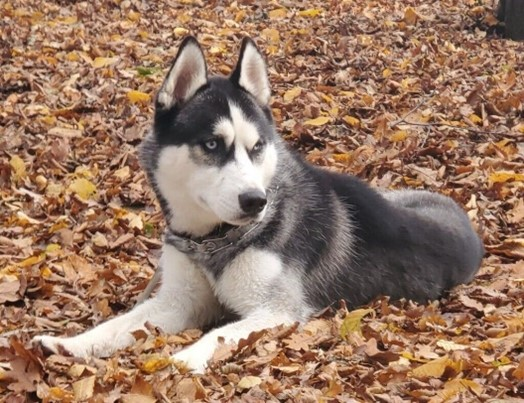
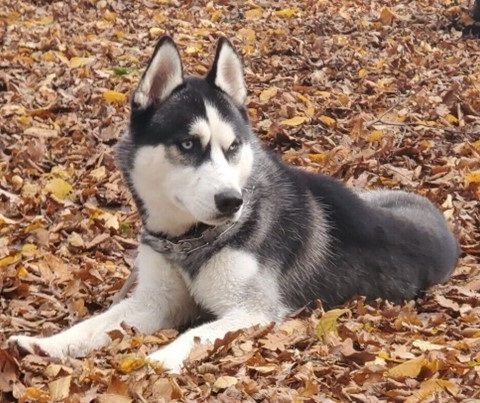
edited images to fit better formatting adoption page added more content to homepage

diff --git a/scp_adoption.html b/scp_adoption.html
@@ -10,7 +10,6 @@
     <link rel="stylesheet" href="styles/scp_adoptionStyles.css">
     <link rel="stylesheet" href="https://cdn.jsdelivr.net/npm/bootstrap-icons@1.11.3/font/bootstrap-icons.min.css">
     <script src="scripts/bootstrap.min.js"></script>
-
 </head>
 <body class="bg-bodyColour">
 <nav>
@@ -18,15 +17,26 @@
 </nav>
 
 
-<div>
-    <div>
-        <h1>Pups Available for Adoption</h1>
-    </div>
+<div class="w-75 mx-auto mb-3 mt-3">
     <div class="container">
         <div class="row">
-        <div class="custom-dog border border-black col-3 p-2">
-            <img class="custom-dog-image p-0 border border-black img-fluid" src="images/dogs/bella.jpg" alt="" width="300">
-            <div class="d-flex flex-column">
+            <h1 class="text-center">Pups Available for Adoption</h1>
+            <div class="col-4 bg-panel">
+                <h2>Adoption Fees</h2>
+                <ul>
+                    <li>Puppies: $450*</li>
+                    <li>Adults: $250</li>
+                    <li>Seniors: $200</li>
+                </ul>
+            </div>
+            <div class="col-4 bg-panel">
+
+            </div>
+        </div>
+        <div class="row mt-2 mb-2">
+        <div class="dog bg-panel col-3">
+            <img class="dog-top mx-auto d-block img-fluid" src="images/dogs/bella.jpg" alt="" width="300">
+            <div class="dog-bottom d-flex flex-column p-4">
                 <span>Name: Bella</span>
                 <span>Age: 3 years old</span>
                 <span>Breed: Labrador Retriever</span>
@@ -39,9 +49,9 @@
                 </ul>
             </div>
         </div>
-        <div class="custom-dog border border-black col-3 p-2">
-            <img class="custom-dog-image p-0 border border-black img-fluid" src="images/dogs/max.jpg" alt="" width="300">
-            <div class="d-flex flex-column">
+        <div class="dog bg-panel col-3">
+            <img class="dog-top mx-auto d-block img-fluid" src="images/dogs/max.jpg" alt="" width="300">
+            <div class="dog-bottom d-flex flex-column p-4">
                 <span>Name: Max</span>
                 <span>Age: 2 years old</span>
                 <span>Breed: German Shepard Mix</span>
@@ -54,9 +64,9 @@
                 </ul>
             </div>
         </div>
-        <div class="custom-dog border border-black col-3 p-2">
-            <img class="custom-dog-image p-0 border border-black img-fluid" src="images/dogs/charlie.jpg" alt="" width="300">
-            <div class="d-flex flex-column">
+        <div class="dog bg-panel col-3">
+            <img class="dog-top mx-auto d-block img-fluid" src="images/dogs/charlie.jpg" alt="" width="300">
+            <div class="d-flex flex-column p-4">
                 <span>Name: Charlie</span>
                 <span>Age: 5 years old</span>
                 <span>Breed: Beagle</span>
@@ -69,11 +79,11 @@
                 </ul>
             </div>
         </div>
-        <div class="custom-dog border border-black col-3 p-2">
-            <img class="custom-dog-image p-0 border border-black img-fluid" src="images/dogs/bailey.jpg" alt="" width="300">
-            <div class="d-flex flex-column">
+        <div class="dog bg-panel col-3">
+            <img class="dog-top mx-auto d-block img-fluid" src="images/dogs/bailey.jpg" alt="" width="300">
+            <div class="d-flex flex-column p-4">
                 <span>Name: Bailey</span>
-                <span>Age: 6 years old</span>
+                <span>Age: 8 years old</span>
                 <span>Breed: Yorkshire Terrier</span>
                 <span>Sex: Female</span>
                 <span>Size: Small</span>
@@ -85,10 +95,10 @@
             </div>
         </div>
         </div>
-        <div class="row">
-            <div class="custom-dog border border-black col-3 p-2">
-                <img class="custom-dog-image p-0 border border-black img-fluid" src="images/dogs/daisy.jpg" alt="" width="300">
-                <div class="d-flex flex-column">
+        <div class="row mt-2 mb-2">
+            <div class="dog bg-panel col-3">
+                <img class="dog-top mx-auto d-block img-fluid" src="images/dogs/daisy.jpg" alt="" width="300">
+                <div class="d-flex flex-column p-4">
                     <span>Name: Daisy</span>
                     <span>Age: 4 years old</span>
                     <span>Breed: Bulldog</span>
@@ -101,9 +111,9 @@
                     </ul>
                 </div>
             </div>
-            <div class="custom-dog border border-black col-3 p-2">
-                <img class="custom-dog-image p-0 border border-black img-fluid" src="images/dogs/rocky.jpg" alt="" width="300">
-                <div class="d-flex flex-column">
+            <div class="dog bg-panel col-3">
+                <img class="dog-top mx-auto d-block img-fluid" src="images/dogs/rocky.jpg" alt="" width="300">
+                <div class="d-flex flex-column p-4">
                     <span>Name: Rocky</span>
                     <span>Age: 1 years old</span>
                     <span>Breed: Siberian Husky</span>
@@ -116,9 +126,9 @@
                     </ul>
                 </div>
             </div>
-            <div class="custom-dog border border-black col-3 p-2">
-                <img class="custom-dog-image p-0 border border-black img-fluid" src="images/dogs/lucy.jpg" alt="" width="300">
-                <div class="d-flex flex-column">
+            <div class="dog bg-panel col-3">
+                <img class="dog-top mx-auto d-block img-fluid" src="images/dogs/lucy.jpg" alt="" width="300">
+                <div class="d-flex flex-column p-4">
                     <span>Name: Lucy</span>
                     <span>Age: 6 years old</span>
                     <span>Breed: Poodle</span>
@@ -131,9 +141,9 @@
                     </ul>
                 </div>
             </div>
-            <div class="custom-dog border border-black col-3 p-2">
-                <img class="custom-dog-image p-0 border border-black img-fluid" src="images/dogs/cooper.jpg" alt="" width="300">
-                <div class="d-flex flex-column">
+            <div class="dog bg-panel col-3">
+                <img class="dog-top mx-auto d-block img-fluid" src="images/dogs/cooper.jpg" alt="" width="300">
+                <div class="d-flex flex-column p-4">
                     <span>Name: Cooper</span>
                     <span>Age: 3 years old</span>
                     <span>Breed: Boxer</span>
@@ -147,10 +157,10 @@
                 </div>
             </div>
         </div>
-        <div class="row">
-            <div class="custom-dog border border-black col-3 p-2">
-                <img class="custom-dog-image p-0 border border-black img-fluid" src="images/dogs/buddy.jpg" alt="" width="300">
-                <div class="d-flex flex-column">
+        <div class="row mt-2 mb-2">
+            <div class="dog bg-panel col-4">
+                <img class="dog-top mx-auto d-block img-fluid" src="images/dogs/buddy.jpg" alt="" width="300">
+                <div class="d-flex flex-column p-4">
                     <span>Name: Buddy</span>
                     <span>Age: 4 years old</span>
                     <span>Breed: Golden Retriever</span>
@@ -163,14 +173,14 @@
                     </ul>
                 </div>
             </div>
-            <div class="custom-dog border border-black col-3 p-2">
-                <img class="custom-dog-image  p-0 border border-black img-fluid" src="images/dogs/zoe.jpg" alt="" width="300">
-                <div class="d-flex flex-column">
+            <div class="dog bg-panel col-4">
+                <img class="dog-top mx-auto d-block img-fluid" src="images/dogs/zoe.jpg" alt="" width="300">
+                <div class="d-flex flex-column p-4">
                     <span>Name: Zoe</span>
                     <span>Age: 5 years old</span>
                     <span>Breed: Shih Tzu</span>
                     <span>Sex: Female</span>
-                    <span>Size: Large</span>
+                    <span>Size: Small</span>
                     <span>Health:</span>
                     <ul>
                         <li>Spayed/Neutered</li>
@@ -178,9 +188,9 @@
                     </ul>
                 </div>
             </div>
-            <div class="custom-dog border border-black col-3 p-2">
-                <img class="custom-dog-image p-0 border border-black img-fluid" src="images/dogs/duke.jpg" alt="" width="300">
-                <div class="d-flex flex-column">
+            <div class="dog bg-panel col-4">
+                <img class="dog-top mx-auto d-block img-fluid" src="images/dogs/duke.jpg" alt="" width="300">
+                <div class="d-flex flex-column p-4">
                     <span>Name: Duke</span>
                     <span>Age: 6 years old</span>
                     <span>Breed: Poodle</span>
@@ -193,9 +203,9 @@
                     </ul>
                 </div>
             </div>
-            <div class="custom-dog border border-black col-3 p-2">
-                <img class="custom-dog-image p-0 border border-black img-fluid" src="images/dogs/sophie.jpg" alt="" width="300">
-                <div class="d-flex flex-column">
+            <div class="dog bg-panel col-4">
+                <img class="dog-top mx-auto d-block img-fluid" src="images/dogs/sophie.jpg" alt="" width="300">
+                <div class="d-flex flex-column p-4">
                     <span>Name: Sophie</span>
                     <span>Age: 3 years old</span>
                     <span>Breed: Border Collie</span>
@@ -215,7 +225,7 @@
 
 
 <footer class="bg-footerColour border border-black rounded-top-5 pt-1 pb-0">
-    <div class="container ">
+    <div class="container">
         <div class="row">
             <!-- About Section appears at tops of footer on mobile, uses middle column on full browser view -->
             <div class="col-12 col-md-4 order-1 order-md-2">

diff --git a/scp_home.html b/scp_home.html
@@ -20,17 +20,9 @@
 
 
 
-<div class="container w-75">
+<div class="container w-75 mx-auto mb-3 mt-3">
     <img class="" src="images/dog_banner_adobepreview.png" alt="Dog Banner Image" width="100%">
-    <div class="row border border-black p-1 rounded-5 bg-homeLoad d-none d-md-block">
-        <div class="col-12 rounded-5 bg-help d-md-none d-sm-block">
-            <h1 class="fw-bold text-center p-2">HELP NOW</h1>
-            <div class="d-flex flex-column p-3">
-                <a href="#" class="btn btn-primary btn-adopt">ADOPT</a>
-                <a href="#" class="btn btn-primary btn-volunteer">VOLUNTEER</a>
-                <a href="#" class="btn btn-primary btn-donate">DONATE</a>
-            </div>
-        </div>
+    <div class="row border border-black p-1 rounded-5 bg-panel d-none d-md-block">
         <div class="col-12">
             <div id="homeCarousel" class="carousel slide pt-2 pb-2" data-bs-ride="carousel">
                 <!-- Indicators -->
@@ -92,11 +84,81 @@
         </div>
     </div>
     <div class="row">
-        <div class="col-12 col-md-6 bg-homeLoad rounded-5 m-1 border border-black p-4">
-            <h1>Our Mission</h1>
-            <p>At Second Chance Pups, we believe every dog deserves a second chance at life. Our mission is to rescue,
-                rehabilitate, and rehome dogs who have been abandoned, neglected, or abused. We provide a safe and
-                loving environment where these dogs can heal and thrive, preparing them for their forever homes.</p>
+        <div class="col-12 col-md-6 bg-panel rounded-5 border border-black p-4">
+            <h2>Our Mission</h2>
+            <p>At Second Chance Pups, our mission is to provide a safe haven and loving care to abandoned and rescued dogs in Saskatoon.
+                We are dedicated to rehabilitating and rehoming dogs in need, offering them a second chance at life.
+                We strive to raise community awareness about the importance of responsible pet ownership and the joys of adopting a rescue animal.
+                Our commitment is to ensure that each dog receives the compassion, medical attention, and training needed to become a cherished family member in their forever homes.</p>
+        </div>
+        <div class="col-12 col-md-6 rounded-5 bg-panel border border-black">
+            <h1 class="fw-bold text-center p-2">HELP NOW</h1>
+            <div class="d-flex flex-column p-3">
+                <a href="scp_adoption.html" class="btn btn-primary btn-adopt">ADOPT</a>
+                <a href="scp_contact.html" class="btn btn-primary btn-volunteer">VOLUNTEER</a>
+                <a href="#" class="btn btn-primary btn-donate">DONATE</a>
+            </div>
+        </div>
+
+    </div>
+    <div class="row">
+        <div class="col-12 col-md-6 bg-panel rounded-5 border border-black p-4">
+            <h2>Events</h2>
+            <div class="border border-black p-3">
+                <h3>Dog Jog & Fun Walk</h3>
+                <ul>
+                    <li>Date: 1 June, 2024</li>
+                    <li>Time: 1:00pm - 3:00pm</li>
+                    <li>Meewasin Valley Trail, Saskatoon</li>
+                </ul>
+                <p>
+                    Host a 5K jog and fun walk where participants can register to run or walk with their dogs.
+                    This could be a themed event around different seasons or holidays (like a "Halloween Hound Run" with costumes for dogs).
+                    Include contests for 'Best Dressed' and 'Top Fundraisers' to encourage participation and community engagement.
+                </p>
+            </div>
+            <div class="border border-black p-3">
+                <h3>Paws in the Park</h3>
+                <ul>
+                    <li>Date: 14 July, 2024</li>
+                    <li>Time: 10:00am - 5:00pm</li>
+                    <li>Kinsmen Park, Saskatoon</li>
+                </ul>
+                <p>
+                    An annual outdoor festival in one of Saskatoon's beautiful parks where families can bring their pets.
+                    The event could feature dog agility demonstrations, pet photography booths, and local food vendors.
+                    There would be adoption stations and information booths about dog care and training. It's a perfect
+                    setting for a fun day out, raising awareness, and funds for the rescue.
+                </p>
+            </div>
+            <div class="border border-black p-3">
+                <h3>Educational Workshop</h3>
+                <ul>
+                    <li>Date: 15 June, 2024</li>
+                    <li>Time: 12:00pm - 2:00pm</li>
+                    <li>Fred Mendel Dog Park, Saskatoon</li>
+                </ul>
+                <p>
+                    Organize workshops on pet care, training basics, first aid for pets, and responsible pet ownership.
+                    These could be held at local community centers or parks. These events not only educate the public
+                    but also position Second Chance Pups as a knowledgeable leader in pet care within the community.
+                </p>
+            </div>
+
+        </div>
+        <div class="col-12 col-md-6 bg-panel rounded-5 border border-black p-4">
+            <h2>Background</h2>
+            <p>Second Chance Pups was founded in 2015 by a group of dedicated animal lovers in Saskatoon who saw a desperate
+                need for a sanctuary for dogs that had been abandoned, abused, or surrendered. The founders, a diverse team
+                including veterinarians, dog trainers, and passionate volunteers, were united by a common goal: to rescue
+                vulnerable dogs and provide them with a second chance at a happy life.</p>
+
+            <p>The organization started with a small facility on the outskirts of Saskatoon but quickly grew as the
+                community rallied to support their cause. Second Chance Pups became known for its compassionate care and
+                commitment to not just rescuing dogs, but also rehabilitating them and preparing them for life in a new home.
+                They developed strong partnerships with local animal shelters and other rescue organizations, creating a
+                network that maximizes the chances of recovery and adoption for dogs in distress. Over the years, Second
+                Chance Pups has successfully placed hundreds of dogs into loving homes, significantly impacting animal welfare in the region.</p>
         </div>
     </div>
 </div>

diff --git a/styles/scp_adoptionStyles.css b/styles/scp_adoptionStyles.css
@@ -1,1 +1,31 @@
 @charset "UTF-8";
+
+.dog{
+    width: 250px;
+    height: 550px;
+    display: flex;
+    flex-direction: column;
+}
+
+
+.dog-top,.dog-bottom{
+    flex: 1;
+}
+
+
+.dog-top{
+    height: 50%;
+    overflow: hidden;
+}
+
+
+.dog-top img{
+    width: 100%;
+    height: 100%;
+    object-fit: cover;
+}
+
+.dog-bottom{
+    padding: 20px;
+    overflow: auto;
+}

diff --git a/styles/scp_siteStyles.css b/styles/scp_siteStyles.css
@@ -13,6 +13,11 @@
     font-weight: bold;
 }
 
+.bg-panel{
+    border: 1px solid black;
+    background-color: #d3ce9f;
+}
+
 .btn-donate{
     background-color: #16731b;
 }

diff --git a/styles/scp_homeStyles.css b/styles/scp_homeStyles.css
@@ -6,6 +6,3 @@
     background-color: #f37c18;
 }
 
-.bg-homeLoad{
-    background-color: #d3ce9f;
-}
